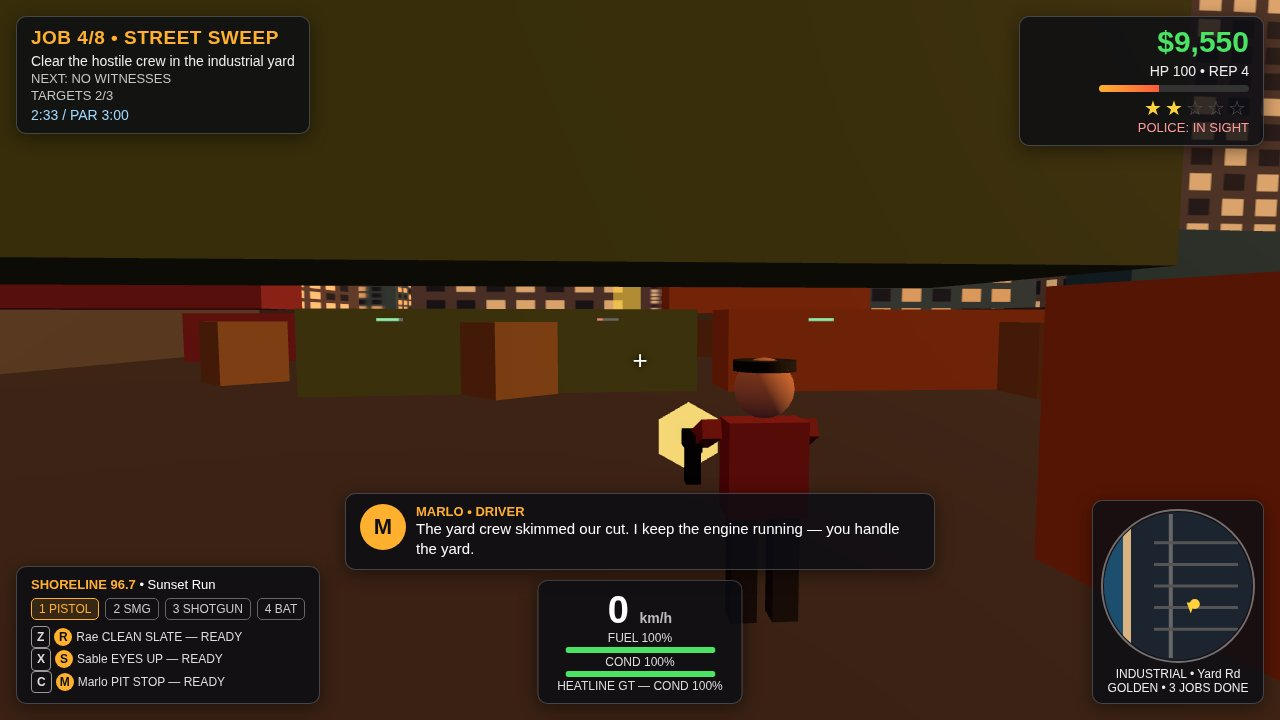
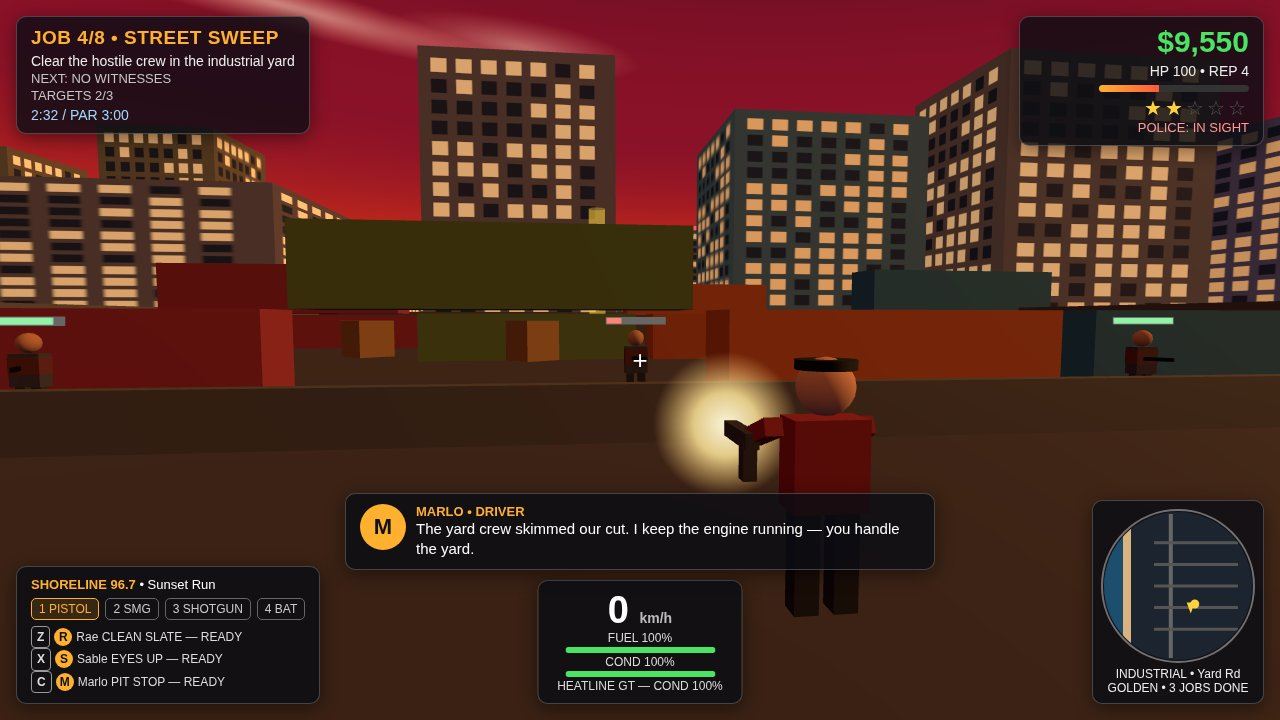
v11 fix round 3: ocean closer to road, heli centred, mission flash smaller, end scene

diff --git a/game/src/main.js b/game/src/main.js
@@ -296,14 +296,14 @@ function placeCamera(mode) {
     const up = mode === 'chase' ? 3.2 : 5.6;
     camera.position.copy(car).addScaledVector(fwd, -back).addScaledVector(right, side).add(new THREE.Vector3(0, up, 0));
     // Pan the view toward the ocean (west) so the water is in the frame.
-    camera.lookAt(car.clone().addScaledVector(fwd, 4).addScaledVector(right, -5).add(new THREE.Vector3(0, 1.0, 0)));
+    camera.lookAt(car.clone().addScaledVector(fwd, 4).addScaledVector(right, -8).add(new THREE.Vector3(0, 1.0, 0)));
   } else if (mode === 'foot') {
     const p = player.group.position;
     camera.position.copy(p).addScaledVector(forwardVec(), -4.6).addScaledVector(rightVec(), 2.0).add(new THREE.Vector3(0, 2.3, 0));
     camera.lookAt(p.clone().addScaledVector(forwardVec(), 12).add(new THREE.Vector3(0, 1.2, 0)));
   } else if (mode === 'lighthouse') {
-    camera.position.set(-108, 9, -408);
-    camera.lookAt(-146, 7, -468);
+    camera.position.set(-30, 9, -400);
+    camera.lookAt(-100, 8, -470);
   } else {
     // live chase camera
     camera.position.copy(car).addScaledVector(fwd, -7).addScaledVector(right, 2.4).add(new THREE.Vector3(0, 2.8, 0));
@@ -350,7 +350,7 @@ function applyShot(name) {
     car.position.set(MAP.yard.x - 34, 0, MAP.yard.z + 30);
     car.rotation.y = heading;
     S.targetsDown = st.targets;
-    const spots = [[-14, -23], [0, -21], [14, -23]];
+    const spots = [[-11, -23], [0, -21], [11, -23]];
     enemies.forEach((e, i) => {
       e.group.visible = true;
       e.group.position.set(MAP.yard.x + spots[i][0], 0, MAP.yard.z + spots[i][1]);
@@ -361,9 +361,9 @@ function applyShot(name) {
     enemies[2].hp = 0.85; enemies[2].drawBar(0.85);
   } else if (name === 'end') {
     heading = Math.PI;
-    car.position.set(-138, 0, -448);
+    car.position.set(-70, 0, -448);
     car.rotation.y = heading;
-    player.group.position.set(-133, 0, -448);
+    player.group.position.set(-65, 0, -448);
     player.group.rotation.y = heading;
     player.group.visible = true;
     S.driving = false;
@@ -381,8 +381,8 @@ function placePolice(st) {
   // camera line, the rest run ahead in the lanes.
   const car = hero.group.position;
   const slots = [
-    { x: MAP.roadX + 3.5, relZ: -10 },  // closest unit, ahead-right, in frame
-    { x: MAP.roadX - 3.5, relZ: -16 },
+    { x: MAP.roadX - 8, relZ: -12 },  // closest unit, ahead-left, in frame
+    { x: MAP.roadX + 3.5, relZ: -24 },
     { x: MAP.roadX + 3.5, relZ: -38 },
     { x: MAP.roadX, relZ: -55 },
   ];
@@ -520,8 +520,8 @@ function drawMinimap() {
   g.save();
   g.beginPath(); g.arc(75, 75, 74, 0, 7); g.clip();
   const toMap = (x, z) => [75 + (x / 600) * 72, 75 + (z / 600) * 72];
-  g.fillStyle = '#1d4e6e'; g.fillRect(0, 0, 22, 150); // ocean strip
-  g.fillStyle = '#d9b380'; g.fillRect(20, 0, 8, 150); // sand
+  g.fillStyle = '#1d4e6e'; g.fillRect(0, 0, 61, 150); // ocean strip
+  g.fillStyle = '#d9b380'; g.fillRect(61, 0, 6, 150); // sand
   g.strokeStyle = '#666'; g.lineWidth = 4;
   g.beginPath(); g.moveTo(...toMap(MAP.roadX, -600)); g.lineTo(...toMap(MAP.roadX, 600)); g.stroke();
   g.strokeStyle = '#555'; g.lineWidth = 3;

diff --git a/game/src/world.js b/game/src/world.js
@@ -101,7 +101,7 @@ export function buildWorld(scene, seed) {
   oceanGeo.rotateX(-Math.PI / 2);
   const oceanMat = new THREE.MeshStandardMaterial({ color: 0x1d4e6e, roughness: 0.25, metalness: 0.55 });
   const ocean = new THREE.Mesh(oceanGeo, oceanMat);
-  ocean.position.set(-490, 0.4, 0);
+  ocean.position.set(-465, 0.4, 0);
   scene.add(ocean);
   out.ocean = ocean;
   out.oceanBase = oceanGeo.attributes.position.array.slice();
@@ -117,7 +117,7 @@ export function buildWorld(scene, seed) {
     new THREE.PlaneGeometry(280, 70),
     new THREE.MeshBasicMaterial({ map: glitterTex, transparent: true, opacity: 0.55, depthWrite: false }));
   glitter.rotation.x = -Math.PI / 2;
-  glitter.position.set(-280, 0.55, -60);
+  glitter.position.set(-230, 0.55, -60);
   scene.add(glitter);
   const foamTex = canvasTex(64, 256, (g, w, h) => {
     g.clearRect(0, 0, w, h);
@@ -130,16 +130,16 @@ export function buildWorld(scene, seed) {
     new THREE.PlaneGeometry(14, 1300),
     new THREE.MeshBasicMaterial({ map: foamTex, transparent: true, opacity: 0.85, depthWrite: false }));
   foam.rotation.x = -Math.PI / 2;
-  foam.position.set(MAP.shoreX - 6, 0.7, 0);
+  foam.position.set(MAP.waterX + 4, 0.7, 0);
   scene.add(foam);
   out.foam = foam;
 
-  // ---- sand ----
+  // ---- sand: the strip between the waterline and the beach road ----
   const sand = new THREE.Mesh(
-    new THREE.PlaneGeometry(90, 1300),
+    new THREE.PlaneGeometry(MAP.shoreX - MAP.waterX + 6, 1300),
     new THREE.MeshStandardMaterial({ color: 0xd9b380, roughness: 1 }));
   sand.rotation.x = -Math.PI / 2;
-  sand.position.set(MAP.shoreX - 45 + 22, 0.2, 0);
+  sand.position.set((MAP.shoreX + MAP.waterX) / 2, 0.2, 0);
   scene.add(sand);
 
   // ---- ground + beach road + cross streets ----
@@ -220,7 +220,7 @@ export function buildWorld(scene, seed) {
     new THREE.MeshStandardMaterial({ color: c, roughness: 0.9, side: THREE.DoubleSide }));
   const palmSpots = [];
   for (let z = -600; z <= 600; z += 26) {
-    palmSpots.push([MAP.shoreX + 8, z + (rnd() - 0.5) * 8]);
+    palmSpots.push([MAP.shoreX - 8, z + (rnd() - 0.5) * 8]);
     palmSpots.push([MAP.roadX - 12, z + 13 + (rnd() - 0.5) * 6]);
     if (rnd() < 0.5) palmSpots.push([MAP.roadX + 12, z + 6 + (rnd() - 0.5) * 8]);
   }

diff --git a/game/src/config.js b/game/src/config.js
@@ -8,14 +8,14 @@ export const MAP = {
   // beach road running north-south between them.
   size: 1200,
   roadX: -60,        // beach road centreline (runs along z)
-  shoreX: -95,       // sand starts here
-  waterX: -140,      // ocean starts here
+  shoreX: -80,       // sand starts here
+  waterX: -115,      // ocean starts here
   yard: { x: 140, z: 150 },       // industrial container yard (job 4)
   garage: { x: -20, z: 260 },     // lose-the-heat garage (job 5)
   safehouse: { x: 60, z: -240 },
-  marina: { x: -140, z: 420 },    // case swap (job 7)
-  lighthouse: { x: -150, z: -480 }, // loop end (job 8)
-  pier: { x: -150, z: 60 },
+  marina: { x: -100, z: 420 },    // case swap (job 7)
+  lighthouse: { x: -105, z: -480 }, // loop end (job 8)
+  pier: { x: -130, z: 60 },
   playerSpawn: { x: -60, z: -40 },
   carSpawn: { x: -52, z: -40 },
   marker1: { x: -60, z: 4 },      // ~44 m from both spawns: no instant trigger
@@ -58,7 +58,7 @@ export const SHOTS = {
   },
   play: {
     job: 2, cash: 3750, rep: 1, done: 1, wanted: 0, elapsed: 72, par: '1:30',
-    speed: 141, heli: true, heliOff: { x: -16, y: 13, z: -42 },
+    speed: 141, heli: true, heliOff: { x: -8, y: 13, z: -38 },
     police: [
       { call: 'SNOOK-12', d: 6, st: 'RESPONDING' },
       { call: 'SNOOK-11', d: 14, st: 'RESPONDING' },
@@ -70,7 +70,7 @@ export const SHOTS = {
   },
   chase: {
     job: 5, cash: 13200, rep: 5, done: 4, wanted: 3, elapsed: 129, par: '2:30',
-    speed: 152, heli: true, heliOff: { x: -12, y: 13.5, z: -46 },
+    speed: 152, heli: true, heliOff: { x: -6, y: 13.5, z: -40 },
     police: [
       { call: 'SNOOK-12', d: 6, st: 'RAMMING' },
       { call: 'SNOOK-11', d: 14, st: 'PURSUIT' },

diff --git a/game/src/vehicles.js b/game/src/vehicles.js
@@ -201,11 +201,11 @@ export function makeHeli() {
   // Spotlight cone hanging below, and the pool it throws on the road.
   const cone = new THREE.Mesh(
     new THREE.ConeGeometry(4.5, 13, 20, 1, true),
-    new THREE.MeshBasicMaterial({ color: 0xfff6c0, transparent: true, opacity: 0.16, side: THREE.DoubleSide, depthWrite: false }));
+    new THREE.MeshBasicMaterial({ color: 0xfff6c0, transparent: true, opacity: 0.22, side: THREE.DoubleSide, depthWrite: false }));
   cone.position.y = -6.9; // apex up at the heli, wide end down at the road
   g.add(cone);
   const pool = new THREE.Mesh(new THREE.CircleGeometry(4.2, 24),
-    new THREE.MeshBasicMaterial({ color: 0xffe9a0, transparent: true, opacity: 0.5, depthWrite: false }));
+    new THREE.MeshBasicMaterial({ color: 0xffe9a0, transparent: true, opacity: 0.65, depthWrite: false }));
   pool.rotation.x = -Math.PI / 2;
   pool.position.y = -13.4;
   g.add(pool);
@@ -282,7 +282,7 @@ export function makePlayer() {
   const flashTex = new THREE.CanvasTexture(flashC);
   const flashMat = new THREE.SpriteMaterial({ map: flashTex, transparent: true, opacity: 0, depthWrite: false });
   const flash = new THREE.Sprite(flashMat);
-  flash.scale.set(1.5, 1.5, 1);
+  flash.scale.set(0.9, 0.9, 1);
   flash.position.set(0.46, 1.28, 1.25);
   g.add(torso, head, cap, armR, armL, legL, legR, pistol, flash);
   return { group: g, pistol, flash, flashMat, legL, legR };
